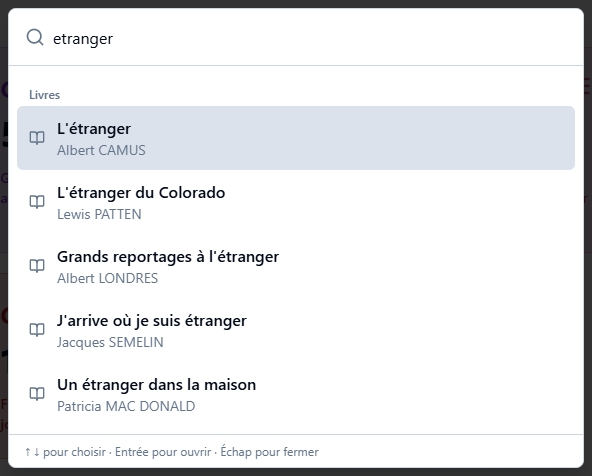
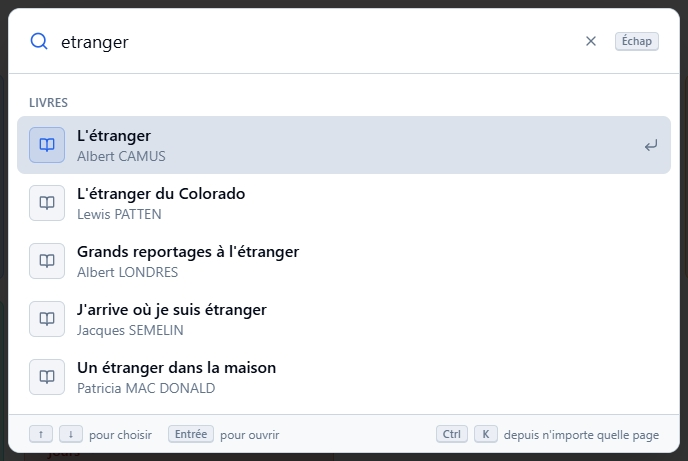
Recherche rapide : une fenêtre plus lisible, et « Schweitzer » en exemple
- Le champ ne coupe plus le bas des lettres (g, p, y) : sa hauteur vient
  d'un interligne généreux et de marges, plus d'une hauteur fixe.
- Fenêtre plus large et plus aérée : résultats avec une icône en pastille,
  ↵ sur la ligne choisie, titres de groupe en capitales, message
  « Aucun résultat pour … » explicite.
- Croix pour effacer la saisie ; touches (Échap, ↑ ↓, Entrée, Ctrl K)
  dessinées en touches dans l'en-tête et le pied de la fenêtre.
- Exemple d'aide : « Schweitzer » remplace « Morvan ».

Mode d'emploi : la croix d'effacement (02-page-principale), capture 07 refaite.

Changed region(s): [[0.0, 0.0304, 1.0, 1.0]]

diff --git a/components/admin/QuickSearch.tsx b/components/admin/QuickSearch.tsx
@@ -1,9 +1,9 @@
 'use client';
 
-import { useEffect, useRef, useState } from 'react';
+import { useEffect, useRef, useState, type ReactNode } from 'react';
 import { useRouter } from 'next/navigation';
 import { Command as CommandPrimitive } from 'cmdk';
-import { Search, Loader2, FileText, BookOpen, User, LayoutGrid } from 'lucide-react';
+import { Search, Loader2, FileText, BookOpen, User, LayoutGrid, X, CornerDownLeft } from 'lucide-react';
 import { Dialog, DialogContent, DialogDescription, DialogTitle } from '@/components/ui/dialog';
 import { foldForLabelMatch } from '@/lib/search-normalize';
 import type { QuickSearchHit } from '@/app/api/search/quick/route';
@@ -16,6 +16,14 @@ const GROUP_ICONS = {
     Membres: User,
     Livres: BookOpen,
 } as const;
+
+function Kbd({ children }: { children: ReactNode }) {
+    return (
+        <kbd className="inline-flex min-w-[1.5rem] items-center justify-center rounded border border-border bg-muted px-1.5 py-0.5 font-sans text-[0.7rem] font-medium leading-none text-muted-foreground shadow-[0_1px_0_hsl(var(--border))]">
+            {children}
+        </kbd>
+    );
+}
 
 /**
  * « Recherche rapide » — one box, from any page of the back office, that
@@ -38,6 +46,7 @@ export function QuickSearch({ pages }: { pages: QuickSearchPage[] }) {
     const [loading, setLoading] = useState(false);
     const timer = useRef<ReturnType<typeof setTimeout> | null>(null);
     const inFlight = useRef<AbortController | null>(null);
+    const inputRef = useRef<HTMLInputElement>(null);
 
     useEffect(() => {
         const onKey = (e: KeyboardEvent) => {
@@ -131,32 +140,61 @@ export function QuickSearch({ pages }: { pages: QuickSearchPage[] }) {
                     if (!o) reset();
                 }}
             >
-                <DialogContent className="top-[15%] translate-y-0 overflow-hidden p-0 sm:max-w-xl [&>[data-dialog-close]]:hidden">
+                {/* gap-0: DialogContent is a gap-4 grid, and the two sr-only
+                    elements below would otherwise each open a 16 px gap above
+                    the box. */}
+                <DialogContent className="top-[12vh] translate-y-0 gap-0 overflow-hidden rounded-xl border-border p-0 shadow-2xl sm:max-w-2xl sm:rounded-xl [&>[data-dialog-close]]:hidden">
                     <DialogTitle className="sr-only">Recherche rapide</DialogTitle>
                     <DialogDescription className="sr-only">
                         Tapez le nom d&apos;une page, d&apos;une personne, le titre d&apos;un livre ou un numéro, puis Entrée pour l&apos;ouvrir.
                     </DialogDescription>
                     {/* shouldFilter off: the server has already matched, with
                         the lists' own accent- and apostrophe-tolerant search. */}
-                    <CommandPrimitive shouldFilter={false} loop className="flex flex-col bg-popover text-popover-foreground">
-                        <div className="flex items-center gap-2 border-b border-border px-4">
-                            <Search className="h-5 w-5 shrink-0 text-muted-foreground" aria-hidden="true" />
+                    <CommandPrimitive shouldFilter={false} loop className="flex min-h-0 flex-col bg-popover text-popover-foreground">
+                        <div className="flex items-center gap-3 border-b border-border px-5">
+                            <Search className="h-5 w-5 shrink-0 text-primary" aria-hidden="true" />
+                            {/* Height comes from padding and a generous
+                                line-height, not a fixed h-*: a fixed box with
+                                the default leading clipped the descenders
+                                (g, p, y) under Segoe UI at some zoom levels. */}
                             <CommandPrimitive.Input
+                                ref={inputRef}
                                 value={query}
                                 onValueChange={onQueryChange}
                                 placeholder="Une page, un nom, un livre, un numéro…"
-                                className="h-14 w-full bg-transparent text-base outline-none placeholder:text-muted-foreground"
+                                className="min-w-0 flex-1 bg-transparent py-4 text-lg leading-8 outline-none placeholder:text-muted-foreground"
                             />
                             {loading && <Loader2 className="h-5 w-5 shrink-0 animate-spin text-muted-foreground" aria-label="Recherche en cours" />}
+                            {query && !loading && (
+                                <button
+                                    type="button"
+                                    onClick={() => {
+                                        onQueryChange('');
+                                        inputRef.current?.focus();
+                                    }}
+                                    aria-label="Effacer la recherche"
+                                    className="shrink-0 rounded-md p-1 text-muted-foreground transition-colors hover:bg-accent hover:text-foreground focus-visible:outline-none focus-visible:ring-2 focus-visible:ring-ring"
+                                >
+                                    <X className="h-4 w-4" aria-hidden="true" />
+                                </button>
+                            )}
+                            <span className="hidden shrink-0 sm:inline-flex">
+                                <Kbd>Échap</Kbd>
+                            </span>
                         </div>
-                        <CommandPrimitive.List className="max-h-[60vh] overflow-y-auto p-2">
+                        <CommandPrimitive.List className="max-h-[min(60vh,32rem)] overflow-y-auto overscroll-contain p-2">
                             {!query.trim() && (
-                                <p className="px-3 py-6 text-center text-sm text-muted-foreground">
-                                    Tapez par exemple « factures », « Morvan », « L&apos;étranger » ou « 412 ».
+                                <p className="px-3 py-8 text-center text-sm text-muted-foreground">
+                                    Tapez par exemple « factures », « Schweitzer », « L&apos;étranger » ou « 412 ».
                                 </p>
                             )}
                             {query.trim() && nothing && !loading && (
-                                <p className="px-3 py-6 text-center text-sm text-muted-foreground">Aucun résultat.</p>
+                                <div className="px-3 py-10 text-center">
+                                    <p className="font-medium text-foreground">Aucun résultat pour « {query.trim()} »</p>
+                                    <p className="mt-1 text-sm text-muted-foreground">
+                                        Vérifiez l&apos;orthographe, ou essayez un autre mot, un nom seul, un numéro.
+                                    </p>
+                                </div>
                             )}
                             {groups.map(({ name, items }) => {
                                 if (items.length === 0) return null;
@@ -165,30 +203,49 @@ export function QuickSearch({ pages }: { pages: QuickSearchPage[] }) {
                                     <CommandPrimitive.Group
                                         key={name}
                                         heading={name}
-                                        className="[&_[cmdk-group-heading]]:px-3 [&_[cmdk-group-heading]]:pb-1 [&_[cmdk-group-heading]]:pt-3 [&_[cmdk-group-heading]]:text-xs [&_[cmdk-group-heading]]:font-medium [&_[cmdk-group-heading]]:text-muted-foreground"
+                                        className="[&:not(:first-child)]:mt-1 [&_[cmdk-group-heading]]:px-3 [&_[cmdk-group-heading]]:pb-1.5 [&_[cmdk-group-heading]]:pt-3 [&_[cmdk-group-heading]]:text-xs [&_[cmdk-group-heading]]:font-semibold [&_[cmdk-group-heading]]:uppercase [&_[cmdk-group-heading]]:tracking-wide [&_[cmdk-group-heading]]:text-muted-foreground"
                                     >
                                         {items.map((item) => (
                                             <CommandPrimitive.Item
                                                 key={item.href}
                                                 value={item.href}
                                                 onSelect={() => go(item.href)}
-                                                className="flex cursor-pointer items-center gap-3 rounded-md px-3 py-2.5 text-foreground data-[selected=true]:bg-accent"
+                                                className="group flex cursor-pointer items-center gap-3 rounded-lg px-3 py-2 text-foreground data-[selected=true]:bg-accent"
                                             >
-                                                <Icon className="h-4 w-4 shrink-0 text-muted-foreground" aria-hidden="true" />
-                                                <span className="min-w-0">
+                                                <span className="flex h-9 w-9 shrink-0 items-center justify-center rounded-md border border-border bg-muted/60 text-muted-foreground group-data-[selected=true]:border-primary/30 group-data-[selected=true]:bg-primary/10 group-data-[selected=true]:text-primary">
+                                                    <Icon className="h-4 w-4" aria-hidden="true" />
+                                                </span>
+                                                <span className="min-w-0 flex-1 leading-snug">
                                                     <span className="block truncate font-medium">{item.label}</span>
                                                     {item.detail && (
                                                         <span className="block truncate text-sm text-muted-foreground">{item.detail}</span>
                                                     )}
                                                 </span>
+                                                <CornerDownLeft
+                                                    className="hidden h-4 w-4 shrink-0 text-muted-foreground opacity-0 group-data-[selected=true]:opacity-100 sm:block"
+                                                    aria-hidden="true"
+                                                />
                                             </CommandPrimitive.Item>
                                         ))}
                                     </CommandPrimitive.Group>
                                 );
                             })}
                         </CommandPrimitive.List>
-                        <div className="border-t border-border px-4 py-2 text-xs text-muted-foreground">
-                            ↑ ↓ pour choisir · Entrée pour ouvrir · Échap pour fermer · Ctrl + K l&apos;ouvre de partout
+                        <div className="hidden flex-wrap items-center gap-x-4 gap-y-1 border-t border-border bg-muted/40 px-5 py-2.5 text-xs text-muted-foreground sm:flex">
+                            <span className="flex items-center gap-1.5">
+                                <Kbd>↑</Kbd>
+                                <Kbd>↓</Kbd>
+                                pour choisir
+                            </span>
+                            <span className="flex items-center gap-1.5">
+                                <Kbd>Entrée</Kbd>
+                                pour ouvrir
+                            </span>
+                            <span className="ml-auto flex items-center gap-1.5">
+                                <Kbd>Ctrl</Kbd>
+                                <Kbd>K</Kbd>
+                                depuis n&apos;importe quelle page
+                            </span>
                         </div>
                     </CommandPrimitive>
                 </DialogContent>

diff --git a/content/aide/02-page-principale.md b/content/aide/02-page-principale.md
@@ -43,7 +43,7 @@ Tapez un mot, et elle propose aussitôt :
 - **les livres**, par leur titre, leur auteur ou leur ISBN ;
 - **les numéros** : tapez « 412 », et la demande, l'attribution, la facture, le livre ou le paiement portant ce numéro sont proposés.
 
-Les accents ne comptent pas : « etranger » trouve « L'Étranger ». Choisissez un résultat avec les flèches du clavier et la touche Entrée, ou d'un clic : un membre ouvre son [dossier](/admin/aide/membres#le-dossier), une demande ou une facture s'ouvre directement dans sa liste. La touche Échap ferme la recherche.
+Les accents ne comptent pas : « etranger » trouve « L'Étranger ». Choisissez un résultat avec les flèches du clavier et la touche Entrée, ou d'un clic : un membre ouvre son [dossier](/admin/aide/membres#le-dossier), une demande ou une facture s'ouvre directement dans sa liste. La croix, à droite du champ, efface ce que vous avez tapé ; la touche Échap ferme la recherche.
 
 ![Page principale - capture 7](/admin/aide/images/page-principale-07.jpg)
 
